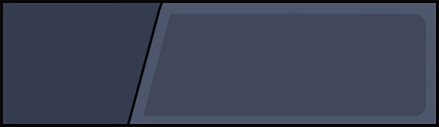
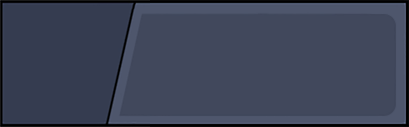
style: refine buff card layout and text

Changed region(s): [[0.2347, 0.0236, 0.3814, 0.9921]]

diff --git a/src/components/buffs/buffs.module.css b/src/components/buffs/buffs.module.css
@@ -13,8 +13,8 @@
 .card {
   position: relative;
   display: grid;
-  grid-template-columns: 34% minmax(0, 1fr);
-  column-gap: 12px;
+  grid-template-columns: 32% minmax(0, 1fr);
+  column-gap: 14px;
   align-items: center;
   min-height: 112px;
   padding: 16px 20px 16px 12px;
@@ -46,6 +46,7 @@
 
 .body {
   min-width: 0;
+  padding-left: 18px;
 }
 
 .titleRow {
@@ -58,12 +59,15 @@
 
 .title {
   margin: 0;
-  color: #ffa3a3;
+  color: #ff5c5c;
   font-size: clamp(0.98rem, 1.8vw, 1.12rem);
-  font-weight: 700;
+  font-weight: 800;
   letter-spacing: -0.015em;
   line-height: 1.25;
-  text-shadow: 0 1px 2px rgba(0, 0, 0, 0.42);
+  text-shadow:
+    0 1px 0 rgba(0, 0, 0, 0.95),
+    0 2px 3px rgba(0, 0, 0, 0.85),
+    0 0 2px rgba(0, 0, 0, 0.9);
 }
 
 .buff .title {
@@ -81,10 +85,13 @@
 
 .description {
   margin: 6px 0 0;
-  color: #e2e8f0;
+  color: #ffffff;
   font-size: clamp(0.8rem, 1.5vw, 0.9rem);
   line-height: 1.45;
-  text-shadow: 0 1px 2px rgba(0, 0, 0, 0.35);
+  text-shadow:
+    0 1px 0 rgba(0, 0, 0, 0.95),
+    0 2px 3px rgba(0, 0, 0, 0.75),
+    0 0 2px rgba(0, 0, 0, 0.8);
 }
 
 @media (max-width: 640px) {
